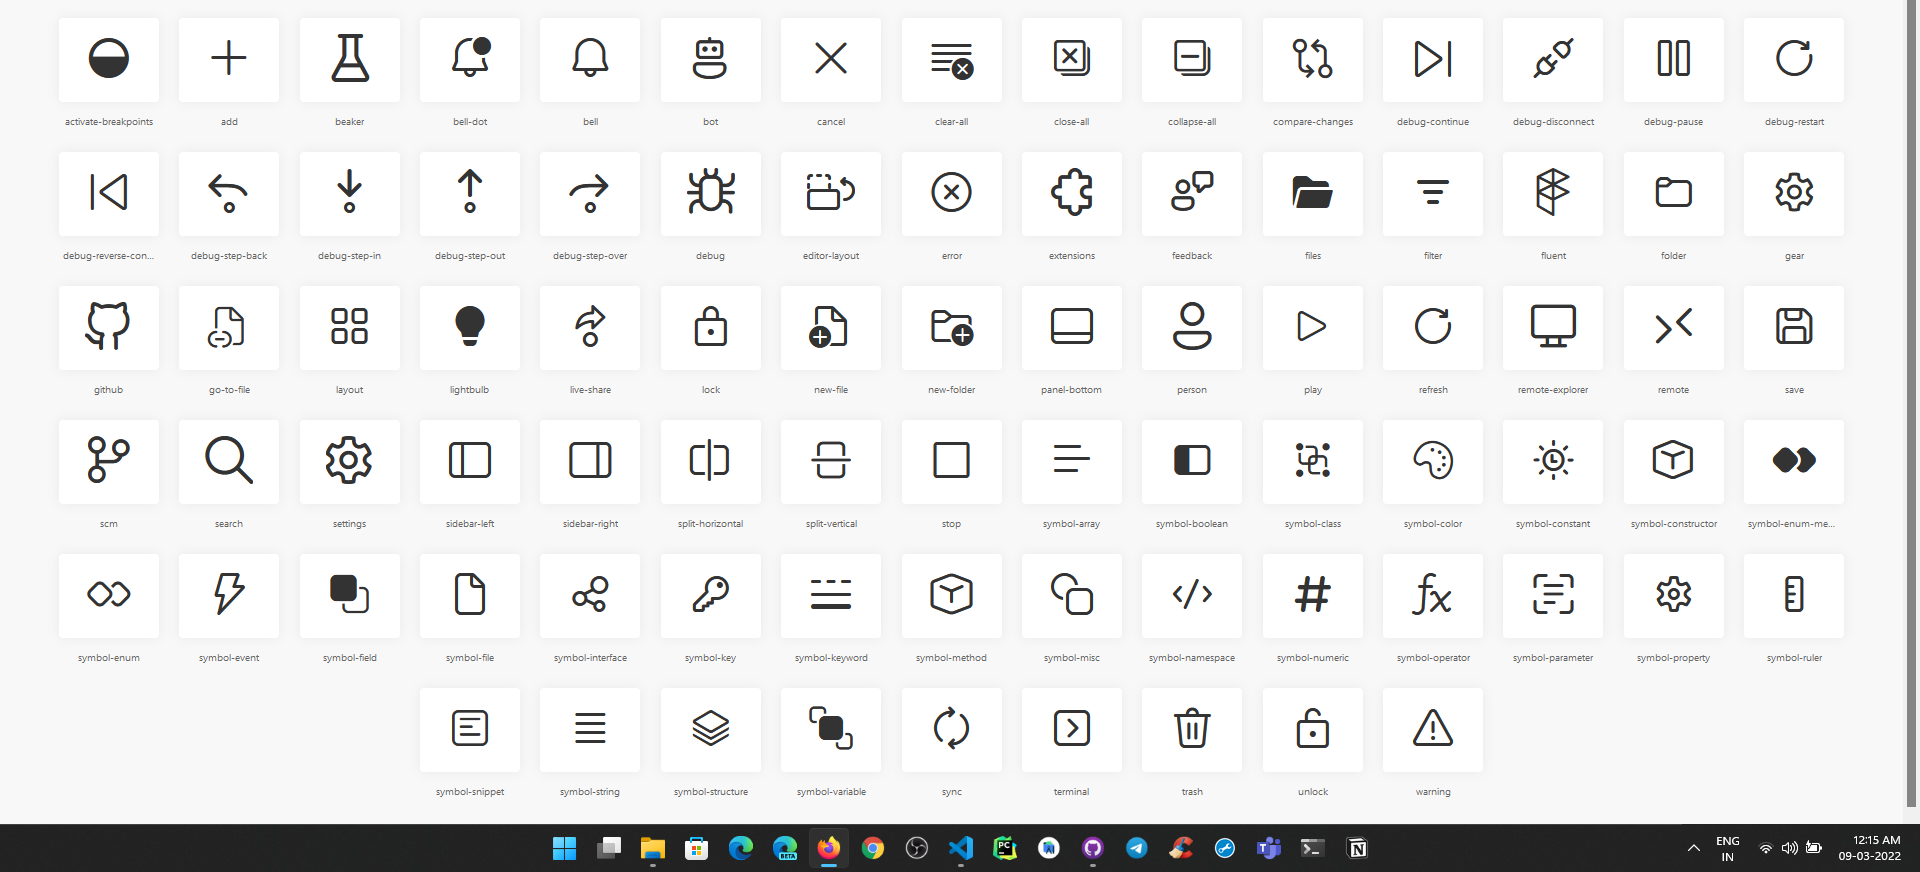
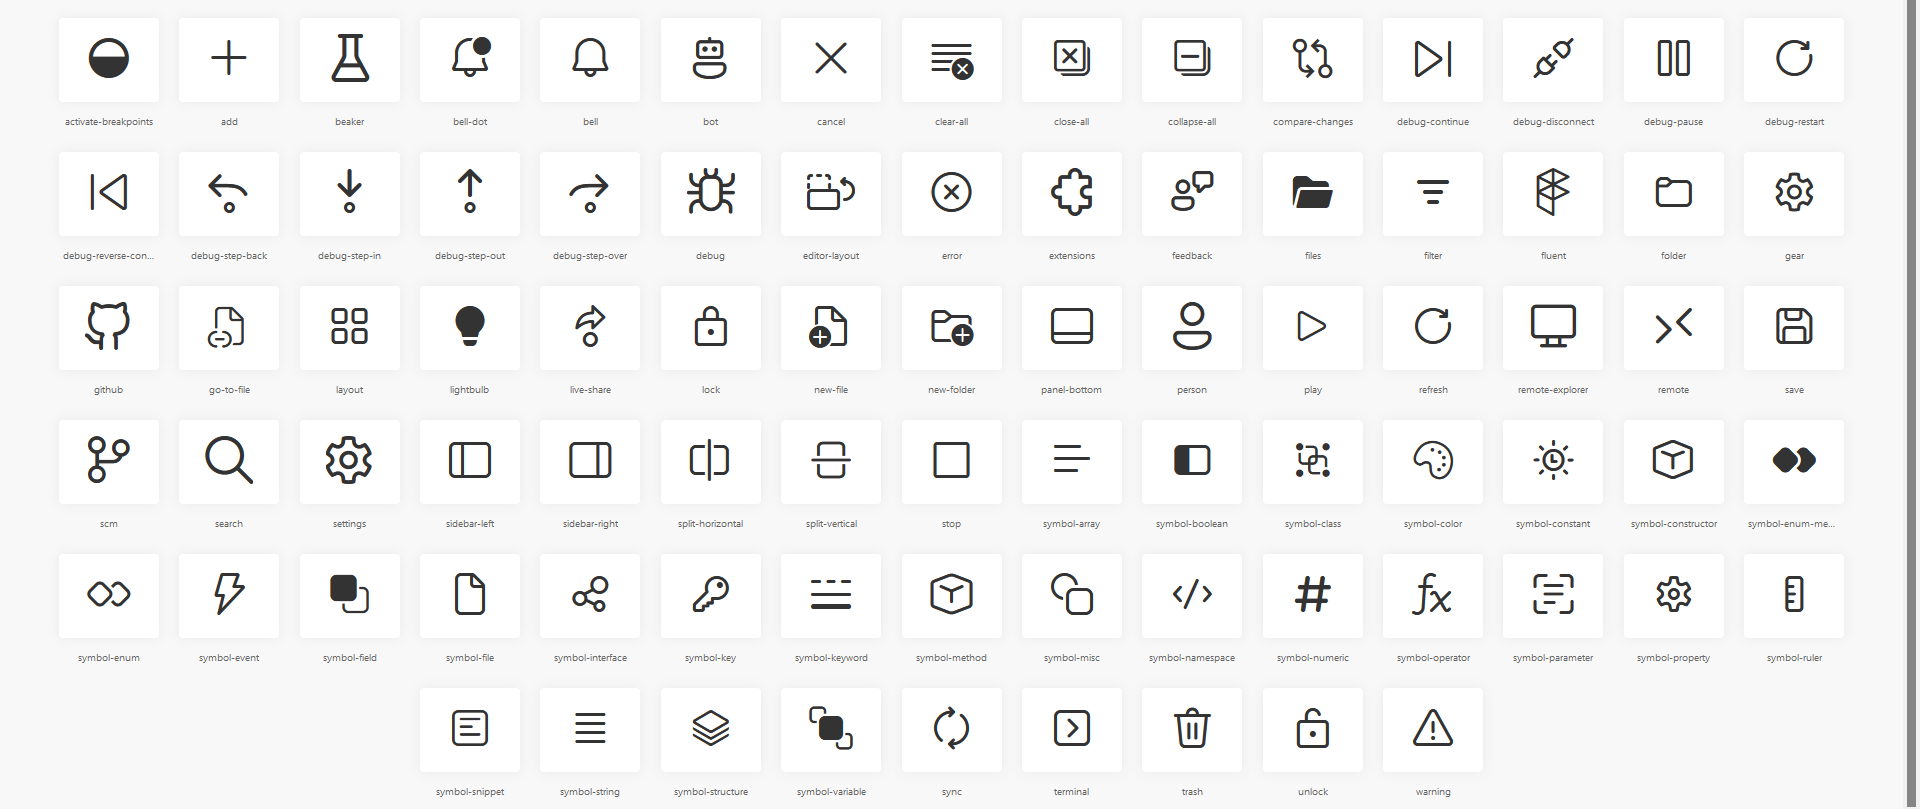
img added

diff --git a/README.md b/README.md
@@ -7,4 +7,8 @@
 ## Preview of theme and colors
 ![Screenshot](https://postimg.cc/nXTLN63F)
 
+![fk](https://raw.githubusercontent.com/Rajeshwaran2001/developer-theme-dark/main/assest/icons-light.png)
+
+![ff](https://raw.githubusercontent.com/Rajeshwaran2001/developer-theme-dark/main/assest/icons-dark.png)
+
 > Not too bright and not too subtle. 
